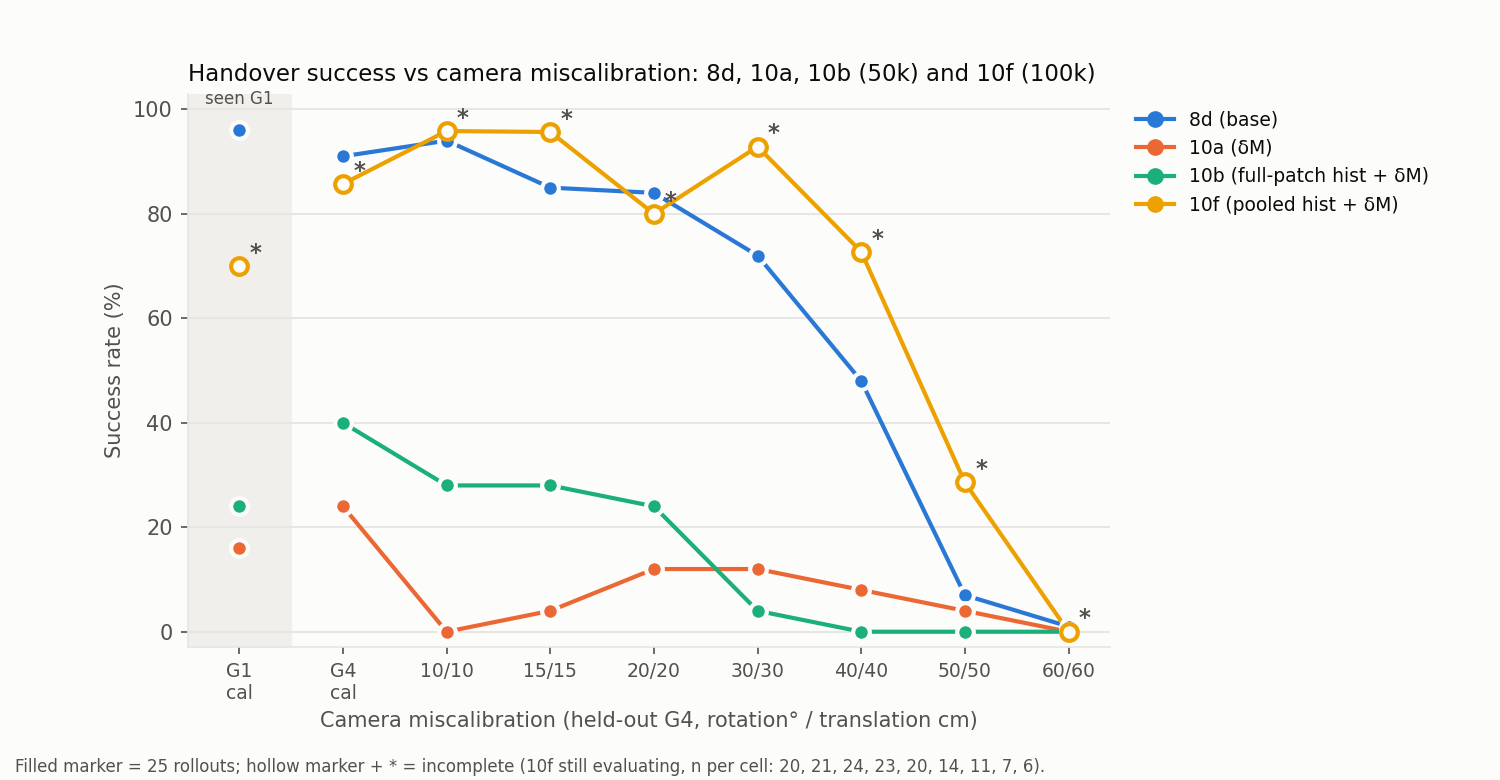
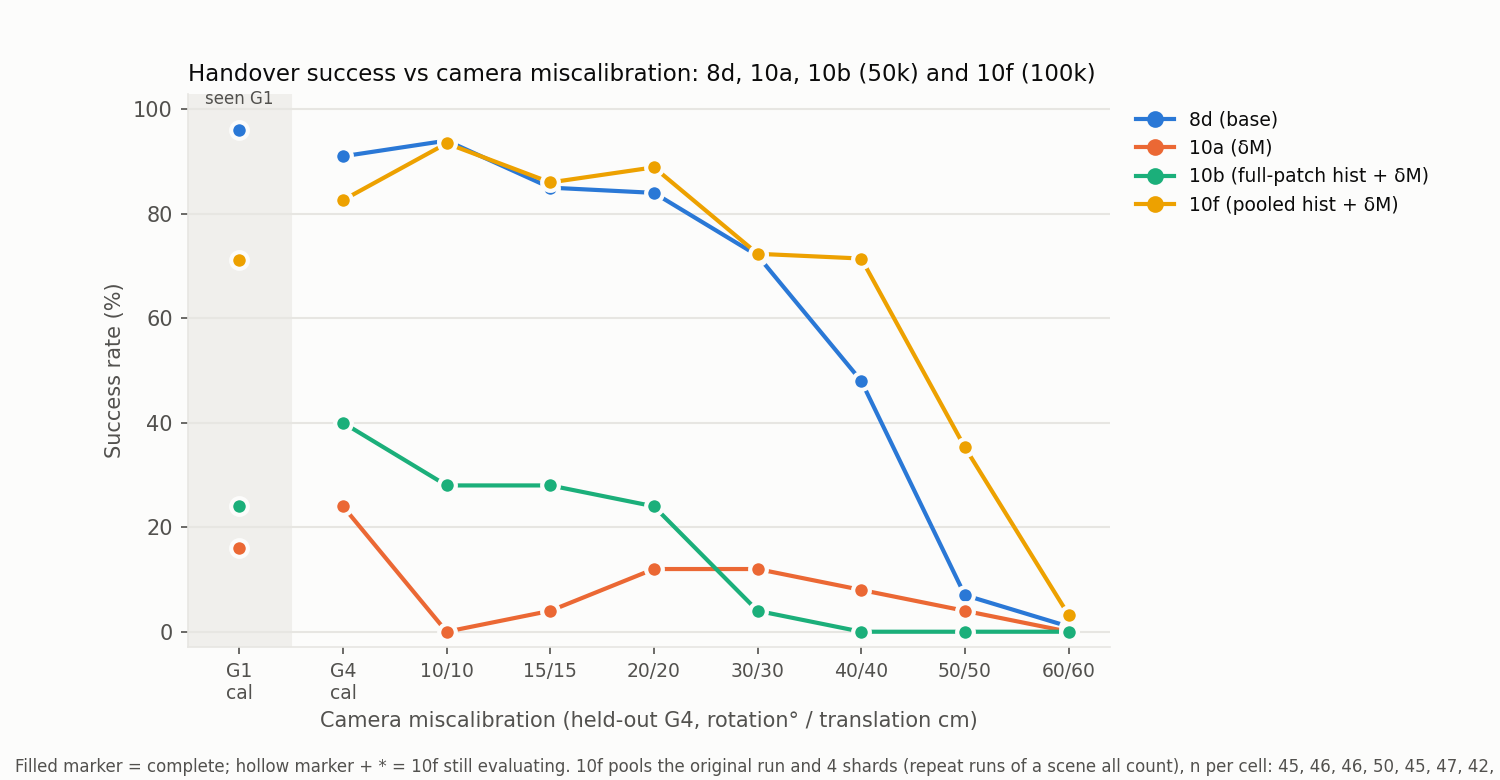
Exp 10: pool sharded and unsharded 10f runs instead of deduping by demo; refresh interim figure
The same 25 scenes gave 76% (original run) and 92% (shards) at 15/15, so a single 25-rollout pass is noisy and repeat runs are independent samples.

diff --git a/scripts/analysis/aggregate_sharded_eval.py b/scripts/analysis/aggregate_sharded_eval.py
@@ -1,5 +1,5 @@
 #!/usr/bin/env python3
-"""Merge sharded and unsharded online-eval results for one method by demo; usage: aggregate_sharded_eval.py <method_id> <version glob>."""
+"""Pool sharded and unsharded online-eval results for one method (repeat runs of a demo all count); usage: aggregate_sharded_eval.py <method_id> <version glob>."""
 import json, glob, re, ast
 root = "/grogu/datasets/hbhatia/3dfa_online_eval_100rollouts/"; logs = "/home/harshilb/3dfa_unified/logs/eval/"
 import sys
@@ -13,27 +13,23 @@ def per_variation(camp):
     for f in glob.glob(logs + camp.split("_v0")[0] + "_v0*.out"):
         m = re.search(r"num_demos_total=25 over \d+ variations -> (\{[^}]*\})", open(f, errors="ignore").read())
         if m: return ast.literal_eval(m.group(1))
-demos, counts = {}, {}
+tot = {}
 for d in glob.glob(root + f"exp10_*_v{V}*/{M}/*/*/"):
     camp, cal = d.split("/")[-5], d.split("/")[-2]; ck = cellkey(camp, cal); sh = re.search(r"v0[0-9]s(\d)", camp)
     prog = load(d + "results_bimanual_handover_item.progress.json")
     res = load(d + "results_bimanual_handover_item.json")
+    t = tot.setdefault(ck, [0, 0])
     if prog:
-        for k, v in prog.items(): demos.setdefault(ck, {}).setdefault(k, v)
+        t[0] += sum(prog.values()); t[1] += len(prog)
     elif res and sh:
         pv = per_variation(camp) or {}
         for var, n in pv.items():
-            got = res["bimanual_handover_item"].get(str(var), 0); n_sh = len([i for i in range(n) if i % 4 == int(sh.group(1))])
-            counts.setdefault(ck, []).append((int(var), int(sh.group(1)), got, n_sh))
-    elif res and not sh:
-        r = res["bimanual_handover_item"]; demos.setdefault(ck, {})["__final__"] = r
+            t[0] += res["bimanual_handover_item"].get(str(var), 0); t[1] += len([i for i in range(n) if i % 4 == int(sh.group(1))])
+    elif res:
+        r = res["bimanual_handover_item"]; t[0] += sum(v for k, v in r.items() if k != "mean"); t[1] += 25
 order = [("G1", "cal"), ("G4", "cal"), ("G4", "10/10"), ("G4", "15/15"), ("G4", "20/20"), ("G4", "30/30"), ("G4", "40/40"), ("G4", "50/50"), ("G4", "60/60")]
 out = []
 for ck in order:
-    dd = dict(demos.get(ck, {})); fin = dd.pop("__final__", None)
-    if fin: out.append(f"{ck[0]} {ck[1]}={100*fin['mean']:.0f}% (25/25 orig)"); continue
-    covered = {(v, s) for v, s, _, _ in counts.get(ck, [])}
-    keep = {k: v for k, v in dd.items() if (int(k.split("_")[0][3:]), int(k.split("demo")[1]) % 4) not in covered}
-    s = sum(keep.values()) + sum(g for _, _, g, _ in counts.get(ck, [])); n = len(keep) + sum(c for *_, c in counts.get(ck, []))
-    out.append(f"{ck[0]} {ck[1]}={s}/{n}" + (f" ({100*s/n:.0f}%)" if n else ""))
-print(f"{M}, original + shards, unique episodes (of 25):"); print("\n".join(out))
+    s_, n = tot.get(ck, [0, 0])
+    out.append(f"{ck[0]} {ck[1]}={s_}/{n}" + (f" ({100*s_/n:.0f}%)" if n else ""))
+print(f"{M}, original + shards pooled (repeat runs of a demo all count):"); print("\n".join(out))

diff --git a/scripts/analysis/plot_exp10_success_vs_miscal.py b/scripts/analysis/plot_exp10_success_vs_miscal.py
@@ -36,7 +36,7 @@ for s in ("left", "bottom"): ax.spines[s].set_color(grid)
 ax.tick_params(colors=ink2)
 ax.text(0, 101, "seen G1", ha="center", color=ink2, fontsize=8)
 ax.set_title("Handover success vs camera miscalibration: 8d, 10a, 10b (50k) and 10f (100k)", color=ink, fontsize=11, loc="left")
-fig.text(0.01, 0.01, "Filled marker = 25 rollouts; hollow marker + * = incomplete (10f still evaluating, n per cell: " + ", ".join(str(v) for v in fn) + ").", color=ink2, fontsize=8)
+fig.text(0.01, 0.01, "Filled marker = complete; hollow marker + * = 10f still evaluating. 10f pools the original run and 4 shards (repeat runs of a scene all count), n per cell: " + ", ".join(str(v) for v in fn) + ").", color=ink2, fontsize=8)
 leg = ax.legend(loc="upper left", bbox_to_anchor=(1.01, 1), frameon=False, fontsize=9, labelcolor=ink)
 plt.subplots_adjust(right=0.74, bottom=0.17)
 fig.savefig("docs/research/experiments/2026-10-20/figures/exp10_success_vs_miscal.png", facecolor=surf)
